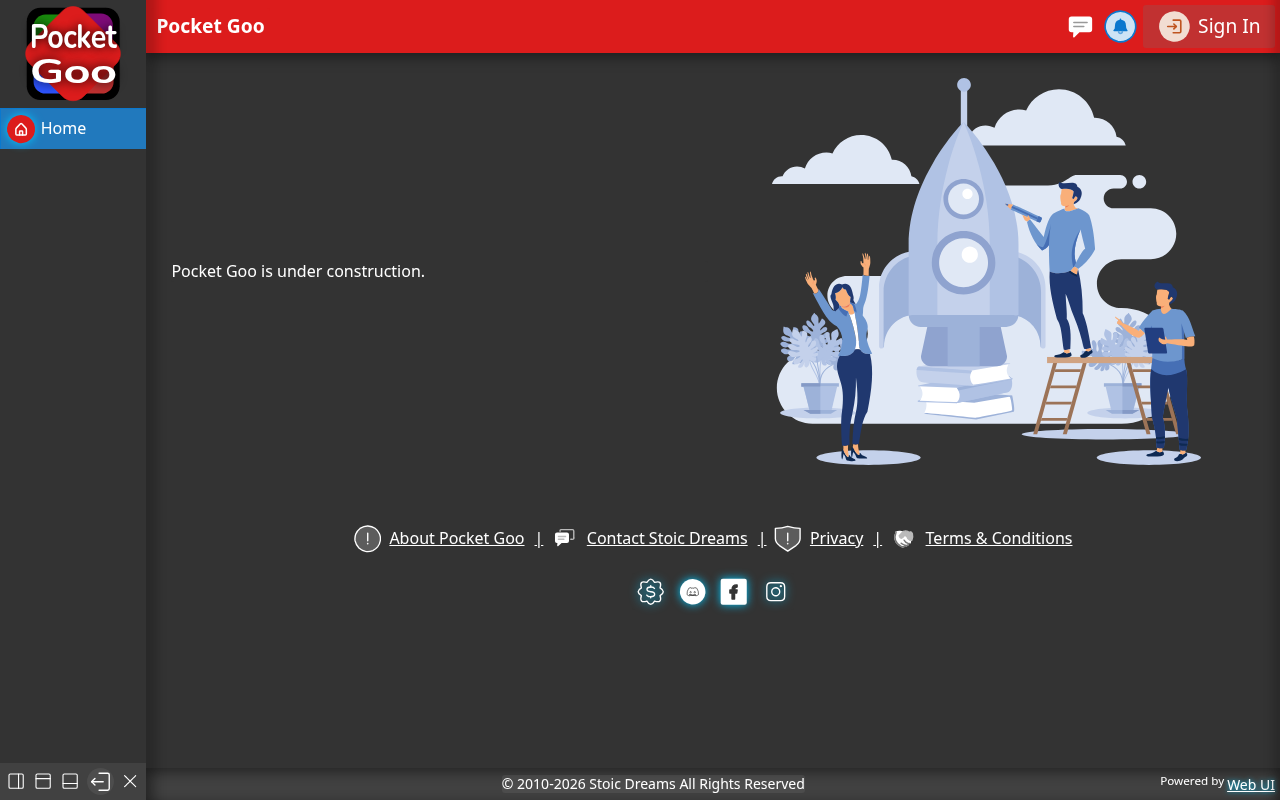
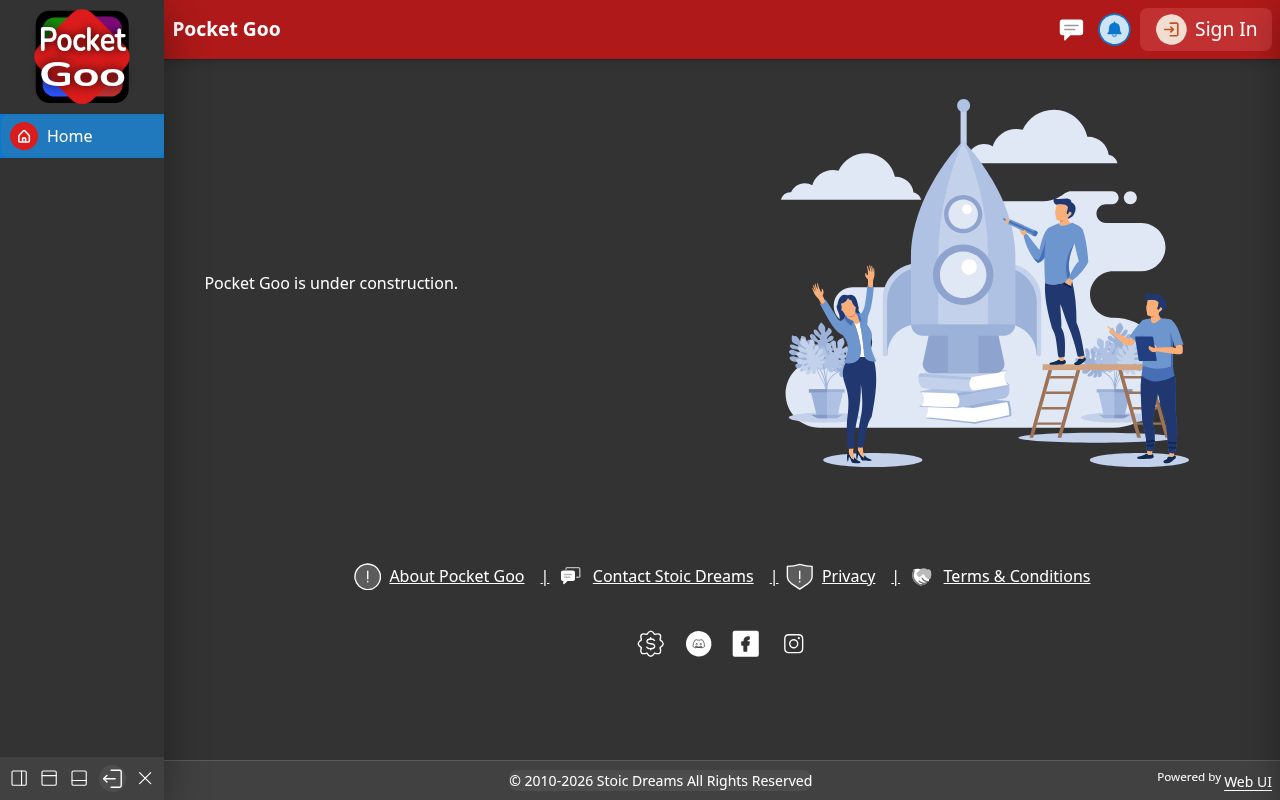
Load Web UI from the local MyFiCDN server on localhost Feature: On localhost the site loads Web UI from http://localhost:3180, and from cdn.myfi.ws everywhere else

diff --git a/webapp/root_files/service-worker.min.js b/webapp/root_files/service-worker.min.js
@@ -1,1 +1,1 @@
-self.addEventListener("install",t=>t.waitUntil(onInstall(t))),self.addEventListener("activate",t=>t.waitUntil(onActivate(t))),self.addEventListener("fetch",t=>{const e=new URL(t.request.url);e.protocol==="ipc:"||e.protocol==="tauri:"||e.hostname==="ipc.localhost"||e.hostname==="tauri.localhost"||e.hostname.startsWith("127")||e.hostname==="localhost"||t.request.url.startsWith("http")&&allowCache(t.request)&&t.respondWith(onFetch(t))});const currentVersion="0.1.19",cacheNamePrefix="offline-cache-",cacheName=`${cacheNamePrefix}${currentVersion}`;async function onInstall(t){self.skipWaiting()}async function onActivate(t){const e=await caches.keys();await Promise.all(e.filter(a=>a.startsWith(cacheNamePrefix)&&a!==cacheName).map(a=>caches.delete(a))),await self.clients.claim()}async function onFetch(t){const e=await caches.open(cacheName);let a;try{a=await fetch(applyCacheBusting(t.request))}catch(n){const c=await e.match(t.request);if(c)return c;throw n}return a.ok?(t.waitUntil(e.put(t.request,a.clone()).catch(()=>{})),a):await e.match(t.request)||a}function applyCacheBusting(t){try{const e=new URL(t.url);return e.searchParams.set("_",Date.now()),new Request(e.toString(),t)}catch{return t}}function allowCache(t){return!(t.method!=="GET"||t.mode==="navigate")}
+self.addEventListener("install",t=>t.waitUntil(onInstall(t))),self.addEventListener("activate",t=>t.waitUntil(onActivate(t))),self.addEventListener("fetch",t=>{const e=new URL(t.request.url);e.protocol==="ipc:"||e.protocol==="tauri:"||e.hostname==="ipc.localhost"||e.hostname==="tauri.localhost"||e.hostname.startsWith("127")||e.hostname==="localhost"||t.request.url.startsWith("http")&&allowCache(t.request)&&t.respondWith(onFetch(t))});const currentVersion="0.1.20",cacheNamePrefix="offline-cache-",cacheName=`${cacheNamePrefix}${currentVersion}`;async function onInstall(t){self.skipWaiting()}async function onActivate(t){const e=await caches.keys();await Promise.all(e.filter(a=>a.startsWith(cacheNamePrefix)&&a!==cacheName).map(a=>caches.delete(a))),await self.clients.claim()}async function onFetch(t){const e=await caches.open(cacheName);let a;try{a=await fetch(applyCacheBusting(t.request))}catch(n){const c=await e.match(t.request);if(c)return c;throw n}return a.ok?(t.waitUntil(e.put(t.request,a.clone()).catch(()=>{})),a):await e.match(t.request)||a}function applyCacheBusting(t){try{const e=new URL(t.url);return e.searchParams.set("_",Date.now()),new Request(e.toString(),t)}catch{return t}}function allowCache(t){return!(t.method!=="GET"||t.mode==="navigate")}

diff --git a/webapp/index.html b/webapp/index.html
@@ -28,15 +28,18 @@
 	<link rel="dns-prefetch" href="https://api.myfi.ws" />
 	<link rel="preconnect" href="https://cdn.myfi.ws">
 	<link rel="preconnect" href="https://api.myfi.ws">
-	<link href="https://cdn.myfi.ws/css/webui.min.css" rel="preload" as="style" />
-	<link href="https://cdn.myfi.ws/webui/loader.min.js" rel="preload" as="script" />
 
 	<link href="Logo.svg" rel="icon" type="image/svg+xml" sizes="any" />
 	<link rel="manifest" href="app.webmanifest">
 
-	<link href="https://cdn.myfi.ws/css/webui.min.css" rel="stylesheet" />
+	<script>
+		// Web UI loads from the local MyFiCDN server (MyFiCDN/PowerShell/RunLocal.ps1) when the site runs on localhost,
+		// so framework changes show before they are published, and from cdn.myfi.ws everywhere else.
+		window.webuiCdn = /^(localhost|127\.0\.0\.1|\[::1\])$/.test(location.hostname) ? 'http://localhost:3180/' : 'https://cdn.myfi.ws/';
+		document.write('<link href="' + webuiCdn + 'css/webui.min.css" rel="stylesheet" />');
+	</script>
 	<link data-trunk href="css/app.min.css" rel="css" />
-	<script src="https://cdn.myfi.ws/webui/loader.min.js"></script>
+	<script>document.write('<script src="' + webuiCdn + 'webui/loader.min.js"></' + 'script>');</script>
 
 	<link data-trunk href="root_files" rel="copy-dir" />
 	<link data-trunk href="d" rel="copy-dir" data-target-path="d" />

diff --git a/webapp/root_files/service-worker.js b/webapp/root_files/service-worker.js
@@ -20,7 +20,7 @@ self.addEventListener('fetch', event => {
     }
     event.respondWith(onFetch(event))
 });
-const currentVersion = '0.1.19';
+const currentVersion = '0.1.20';
 const cacheNamePrefix = 'offline-cache-';
 const cacheName = `${cacheNamePrefix}${currentVersion}`;
 async function onInstall(event) {

diff --git a/Docs/README.md b/Docs/README.md
@@ -1,6 +1,6 @@
 # Pocket Goo
 
-[Version: 0.1.19](https://github.com/StoicDreams/PocketGoo)
+[Version: 0.1.20](https://github.com/StoicDreams/PocketGoo)
 
 [WebUI](https://github.com/StoicDreams/WebUI)
 
